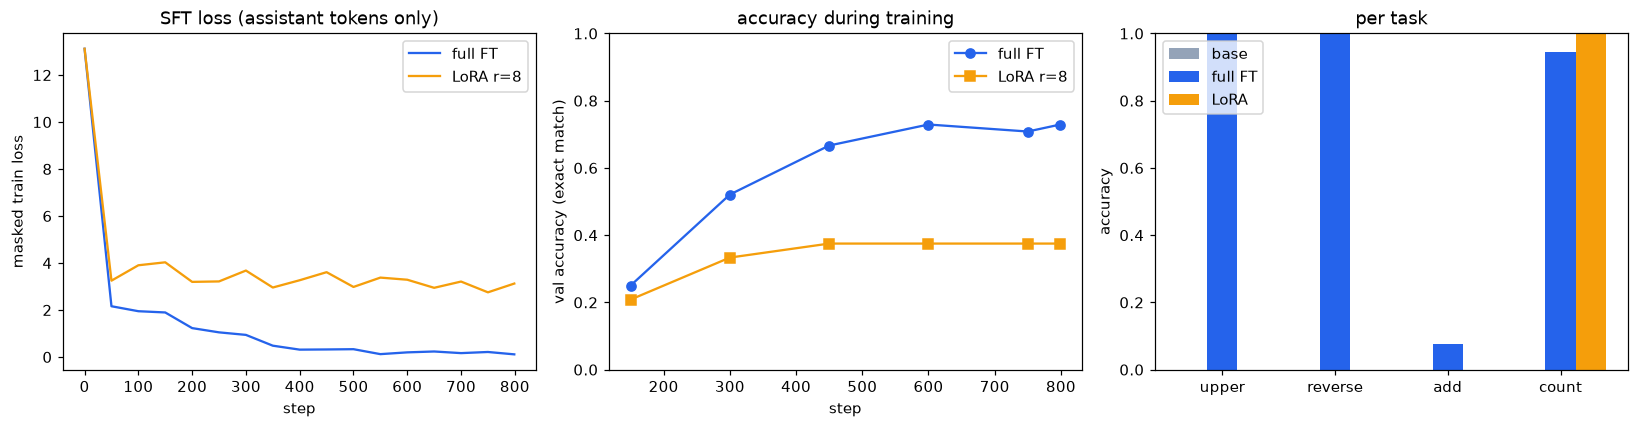
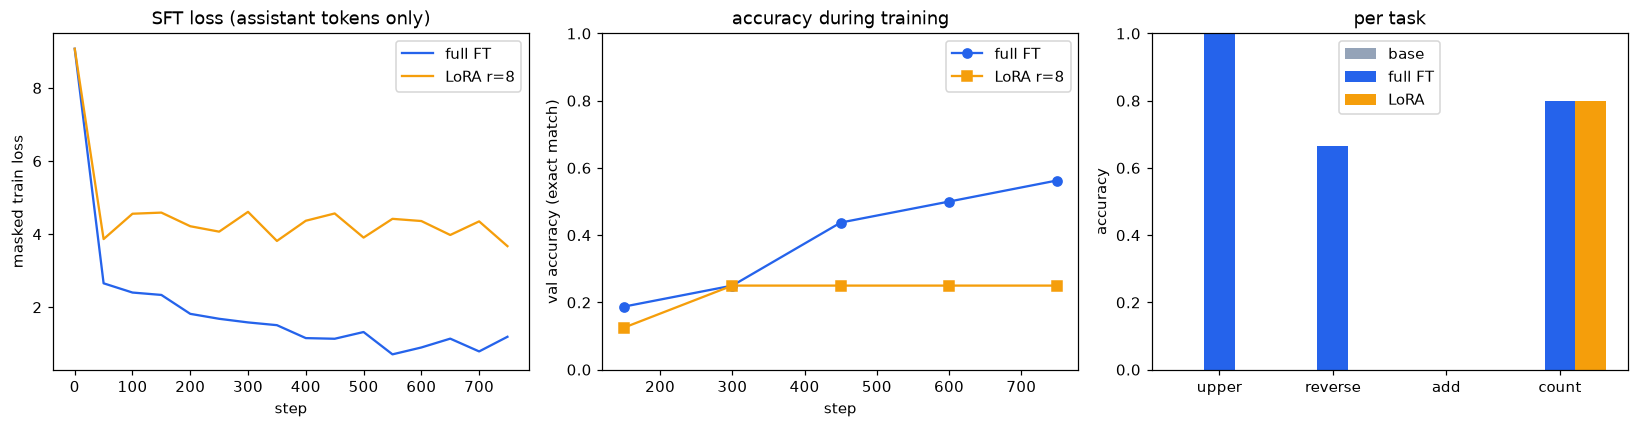
Chapters 27-29 drafts; miniharness session numbering and extra hooks; thread-safe ScriptedBackend; sft_train accepts conversations
Claude-Session: https://claude.ai/code/session_012Vyy4yQT3RsZVSUSp91Re6

diff --git a/course/llm/agent/miniharness.py b/course/llm/agent/miniharness.py
@@ -31,8 +31,10 @@ SESSION_SYSTEM = ("You are a coding agent working in a sandboxed repository. Fol
 
 
 class MiniHarness:
-    def __init__(self, backend: Backend, workdir: str, config: Optional[AgentConfig] = None) -> None:
+    def __init__(self, backend: Backend, workdir: str, config: Optional[AgentConfig] = None,
+                 extra_hooks: Optional[Hooks] = None) -> None:
         self.backend = backend
+        self.extra_hooks = extra_hooks              # caller-supplied hooks, merged into _hooks()
         self.workdir = os.path.realpath(workdir)
         os.makedirs(self.workdir, exist_ok=True)
         cfg = config or AgentConfig()
@@ -60,6 +62,10 @@ class MiniHarness:
     # ------------------------------------------------------------- hooks
     def _hooks(self) -> Hooks:
         hooks = Hooks()
+        if self.extra_hooks is not None:
+            hooks.pre_tool += list(self.extra_hooks.pre_tool)
+            hooks.post_tool += list(self.extra_hooks.post_tool)
+            hooks.on_event += list(self.extra_hooks.on_event)
 
         def guard_writes(call: ToolCall) -> Optional[str]:
             # Rule 1: the plan is the human's contract; the model may not rewrite it.
@@ -106,7 +112,9 @@ class MiniHarness:
         t = agent.run(prompt)
         self.sessions.append(t)
         ok, report = self.verify()
-        n = len(self.sessions)
+        # Number sessions from the file, not from this object: a *new process* resuming on
+        # the same directory (the whole point of PROGRESS.md) must continue the count.
+        n = self._read("PROGRESS.md").count("\n## Session ") + 1
         self._append("PROGRESS.md", f"\n## Session {n} ({t.stop_reason}, {t.turns} turns, {t.tool_calls_made} tool calls)\n"
                                     f"{t.final_text.strip() or '(no summary)'}\n\n"
                                     f"Verification: {'PASS' if ok else 'FAIL'}\n```\n{report.strip()[-800:]}\n```")

diff --git a/course/llm/agent/backends.py b/course/llm/agent/backends.py
@@ -25,6 +25,7 @@ Each backend translates this format to and from its own wire format.
 from __future__ import annotations
 
 import json
+import threading
 import os
 import re
 import uuid
@@ -94,6 +95,7 @@ class ScriptedBackend:
         self.script = [self._coerce(item) for item in script]
         self.calls: list[dict] = []
         self.index = 0
+        self._lock = threading.Lock()               # workers in threads (Ch. 28) share one script
 
     @staticmethod
     def _coerce(item: ScriptItem) -> AssistantMessage:
@@ -105,12 +107,13 @@ class ScriptedBackend:
         return AssistantMessage(text=item.get("text", ""), tool_calls=calls)
 
     def complete(self, messages: list[dict], tools: list[dict], system: str) -> AssistantMessage:
-        self.calls.append({"messages": [dict(m) for m in messages], "tools": tools, "system": system})
-        if self.index >= len(self.script):
-            return AssistantMessage(text="(script exhausted)")
-        msg = self.script[self.index]
-        self.index += 1
-        return msg
+        with self._lock:                            # thread-safe: workers may share one script
+            self.calls.append({"messages": [dict(m) for m in messages], "tools": tools, "system": system})
+            if self.index >= len(self.script):
+                return AssistantMessage(text="(script exhausted)")
+            msg = self.script[self.index]
+            self.index += 1
+            return msg
 
 
 # -------------------------------------------------------------------- TinyLM

diff --git a/course/llm/sft.py b/course/llm/sft.py
@@ -79,8 +79,13 @@ def build_sft_dataset(tok: BPETokenizer, examples: Sequence[TaskExample], max_le
     everything else — system prompt, user turn, role tags — is 0 and contributes
     nothing to the loss.
     """
-    return [build_sft_example(tok, ex.messages(with_answer=True, system=system), max_len)
-            for ex in examples]
+    out = []
+    for ex in examples:
+        # accept either a TaskExample or a raw conversation (list of {"role","content"} dicts),
+        # so tool-use traces (Chapters 21, 27) can use the same training loop
+        msgs = ex if isinstance(ex, (list, tuple)) else ex.messages(with_answer=True, system=system)
+        out.append(build_sft_example(tok, msgs, max_len))
+    return out
 
 
 def describe_mask(tok: BPETokenizer, ids: Sequence[int], mask: Sequence[int]) -> str:

diff --git a/course/chapters/15-sft.md b/course/chapters/15-sft.md
@@ -44,7 +44,7 @@ Full fine-tuning updates every weight. For a 2.5M-parameter TinyLM that is free;
 
 In the figure the input `x` takes two paths. The upper path is the frozen weight `W` (192 × 192 for TinyLM-small's `q_proj`, 36,864 numbers). The lower path is two thin matrices: `A` squeezes `x` from 192 dimensions to `r = 8`, and `B` expands it back to 192. Their product `B A` has the same shape as `W`, so the two paths can be added, scaled by `α/r`. What is trained is only `A` and `B`: 8 × 192 + 192 × 8 = 3,072 numbers, 8.3% of `W`. `B` starts at zero, so on step 0 the layer computes exactly `W x` and training moves it away from the base model gradually. After training, `W + (α/r) B A` is computed once and written back into `W` (`merge_lora`), so the served model is an ordinary model with no extra cost. The rank `r` bounds how much the adapter can change: the update `B A` has at most 8 independent directions. Hu et al. (2021) found that surprisingly small ranks (4 to 16) match full fine-tuning on most tasks, and the current evidence (Biderman et al., 2024, "LoRA Learns Less and Forgets Less") is that LoRA under-performs full fine-tuning on tasks that need new knowledge, such as continued pretraining on code, and matches it on format and style tasks, while also forgetting less of the base model's abilities. The lab measures both halves of that claim.
 
-An analogy: LoRA is like editing a published book with a sheet of errata clipped to each chapter instead of reprinting the book. The sheet is small, several sheets can be swapped in and out, and a reader can paste the corrections into the text if they want a single clean copy. The limit of the analogy: an erratum can change any sentence, while a rank-8 update can only change a weight matrix along eight directions.
+An analogy: LoRA is an errata sheet clipped to a printed book instead of a reprint: small, swappable, and pasteable into the text for a clean copy. Its limit: an erratum can change any sentence, while a rank-8 update can only move a weight matrix along eight directions.
 
 ## The idea in code
 
@@ -102,7 +102,7 @@ hist = sft_train(model, tok, train, cfg, val_examples=make_examples(32, seed=2, 
 hist.train_loss[0], hist.train_loss[-1], hist.val_acc    # 9.07, 1.19, [0.19, 0.25, 0.44, 0.50, 0.56]  (nano, ~3 min idle)
 ```
 
-The defaults in `SFTConfig` encode the folklore of the stage. `lr = 3e-4` is a third of pretraining's `1e-3`; production SFT of a 7B-to-70B model uses `1e-5` to `2e-5`, roughly ten times below its pretraining rate, because the model is already in a good basin and a large step leaves it. The lab uses `1e-3` because TinyLM is 300 to 2,500 times smaller than those models and the default converges about three times slower at this scale; the rule "SFT LR ≈ pretraining LR / 10" is a rule for models that were pretrained near their optimal LR, which nano and small were not. `weight_decay = 0` because decay pulls weights toward zero, away from the pretrained solution. `epochs` is optional and usually 1 to 3: the third epoch on a small set overfits, which shows up as validation loss rising while accuracy plateaus. `max_len = 192` truncates; `grad_clip = 1.0` as always.
+The defaults in `SFTConfig` encode the folklore of the stage. `lr = 3e-4` is a third of pretraining's `1e-3`; production SFT of a 7B-to-70B model uses `1e-5` to `2e-5`, roughly ten times below its pretraining rate, because the model is already in a good basin and a large step leaves it. The lab uses `1e-3` because TinyLM is thousands of times smaller and the default converges about three times slower at this scale; the "pretraining LR / 10" rule assumes a model pretrained near its optimal LR, which nano and small were not. `weight_decay = 0` because decay pulls weights toward zero, away from the pretrained solution. `epochs` is usually 1 to 3: a third epoch on a small set shows up as validation loss rising while accuracy plateaus. `max_len = 192` truncates; `grad_clip = 1.0` as always.
 
 ### Step 4: packing
 
@@ -165,7 +165,7 @@ step     0 | loss 9.0731 | lr 5.00e-05 | grad_norm 11.90
    val loss 1.3134 | accuracy 0.44 (add=0.00 count=1.00 reverse=0.33 upper=0.33)     <- step 450
    val loss 1.1553 | accuracy 0.50 (add=0.00 count=0.80 reverse=0.50 upper=0.83)     <- step 600
    val loss 1.0471 | accuracy 0.56 (add=0.00 count=0.80 reverse=0.67 upper=1.00)     <- step 749
-full FT: 398s for 750 steps (0.53s/step) | loss 9.07 -> 1.19
+full FT: 42s for 750 steps (0.06s/step) | loss 9.07 -> 1.19
 ```
 
 Read the accuracy column as a story in three acts. By step 150 the model answers in the format (every answer is short and ends with `<|end|>`) and has learned `count`, the task whose answer is one digit determined by a length. Between 300 and 450, `upper` and `reverse` switch on: until then the model was producing plausible uppercase strings that ignored the prompt word (`Write in capitals: map` → `BARE` in an earlier 300-step run), and the jump is the moment attention from the answer position to the prompt's word token forms, the same copy circuit that Chapter 5 drew. `add` never moves: two-digit addition with carries is not a shallow transformation of the prompt, and 750 steps of imitation do not install it, which is Chapter 19's job. The loss falls from 9.07 to 1.19, but the number that matters is the accuracy table after training:
@@ -208,12 +208,12 @@ Then a fresh copy is trained through `sft_train(..., lora_rank=8)` for the same 
 
 ```
 method         trainable  steps    time  s/step  accuracy  upper  reverse   add  count    ppl
-full FT          379,200    750    398s    0.53      0.56   1.00     0.67  0.00   0.80 821.65
-LoRA r=8          37,632    750    238s    0.32      0.25   0.00     0.00  0.00   0.80  22.21
-one training step, evals excluded: full FT 1461 ms | LoRA 521 ms
+full FT          379,200    750     42s    0.06      0.56   1.00     0.67  0.00   0.80 821.65
+LoRA r=8          37,632    750     45s    0.06      0.25   0.00     0.00  0.00   0.80  22.21
+one training step, evals excluded: full FT 48 ms | LoRA 52 ms
 ```
 
-Two things to read off. First, "LoRA learns less and forgets less" in one row: with a tenth of the parameters and the same steps, rank-8 LoRA on nano learns the format and `count` and never gets the copy tasks (its validation loss flattens at 3.8 against 1.05 for full fine-tuning), while its Storyland perplexity is 22 instead of 822. The rank bounds how far each weight matrix can move, in both directions. Second, the cost: the wall-clock column includes the periodic evaluations, which are slow for a model that has not learned to stop, so the honest comparison is the micro-benchmark on the last line. Frozen weights need no weight-gradient matmuls and the optimizer touches 37k numbers instead of 379k, so a LoRA step can only be cheaper; how much cheaper depends on what dominates. Here the quick run measured 521 ms against 1,461 ms on a CPU that other jobs were loading (a load average above 10, so treat the ratio as noisy), while the idle-machine full run below measured 187 ms against 201 ms: at TinyLM's size the activation-gradient work, which LoRA does not skip, is most of the step. LoRA's memory saving, the Adam moments for 2.5M or 70B parameters that never get allocated, is the reliable win; the speed-up is a bonus that grows with model size. The lab's checks confirm `sft_train` merged the adapters back and that the result has the same parameter names as the base. The quick run takes about 12 minutes on a loaded 4-core machine, most of it the two 750-step trainings.
+Two things to read off. First, "LoRA learns less and forgets less" in one row: with a tenth of the parameters and the same steps, rank-8 LoRA on nano learns the format and `count` and never gets the copy tasks (its validation loss flattens at 3.8 against 1.05 for full fine-tuning), while its Storyland perplexity is 22 instead of 822. The rank bounds how far each weight matrix can move, in both directions. Second, the cost. The wall-clock column includes the periodic evaluations, which are slow for a model that has not learned to stop, so the honest comparison is the micro-benchmark on the last line: 48 ms against 52 ms, no saving at all. Frozen weights need no weight-gradient matmuls and the optimizer touches 37k numbers instead of 379k, but at TinyLM's size the activation-gradient work, which LoRA does not skip, is most of the step. LoRA's reliable win is memory (the Adam moments for 2.5M, or 70B, parameters that are never allocated); the speed-up is a bonus that only appears once the weight matmuls dominate. The lab's checks confirm `sft_train` merged the adapters back and that the result has the same parameter names as the base. The whole quick run takes 94 s on an idle 4-core CPU (12 minutes when the same CPU was shared with other jobs).
 
 The `--full` run does the same with TinyLM-small on 48 validation items and 800 steps, and gets the copy tasks completely:
 
@@ -243,7 +243,7 @@ LoRA r=8         150,528    800    435s    0.54      0.38   0.00     0.00  0.00 
 one training step, evals excluded: full FT 201 ms | LoRA 187 ms
 ```
 
-The larger model learns the copy tasks earlier (0.88 on `upper` by step 450 against 0.33 for nano) and gets them all by step 600, with the training loss at 0.11 by the end. `add` creeps to 0.08: the model now copies the two operands correctly (`20 + 55 = 77`) and gets the sum wrong, which is the honest state of a model that has learned the procedure's *shape*, and an intermediate step that Chapter 19's verifiable reward will push the rest of the way. The confidence interval on `all`, `[0.60, 0.85]` with 48 items, is the reminder that 0.73 is not a precise number. Forgetting is milder in absolute terms than for nano (perplexity 182 instead of 822) and still catastrophic; the checkpoint `runs/sft_small.pt` is what Chapters 16 to 20 load. The LoRA row repeats the quick story at 6.0% of the parameters: `count` at 1.00, copy tasks at 0.00 after 800 steps, perplexity 5.96. The full run took 19.5 minutes on a 4-core CPU that other jobs were sharing; about 11 of those minutes are the two 800-step trainings and the rest is evaluation.
+The larger model learns the copy tasks earlier (0.88 on `upper` by step 450 against 0.33 for nano) and gets them all by step 600, with the training loss at 0.11 by the end. `add` creeps to 0.08: the model now copies the two operands correctly (`20 + 55 = 77`) and gets the sum wrong, which is the honest state of a model that has learned the procedure's *shape*, and an intermediate step that Chapter 19's verifiable reward will push the rest of the way. The confidence interval on `all`, `[0.60, 0.85]` with 48 items, is the reminder that 0.73 is not a precise number. Forgetting is milder in absolute terms than for nano (perplexity 182 instead of 822) and still catastrophic; the checkpoint `runs/sft_small.pt` is what Chapters 16 to 20 load. The LoRA row repeats the quick story at 6.0% of the parameters: `count` at 1.00, copy tasks at 0.00 after 800 steps, perplexity 5.96. The full run took 19.5 minutes on a 4-core CPU that other jobs were sharing, about 11 of them the two 800-step trainings; the per-step micro-benchmark there was 201 ms for full fine-tuning against 187 ms for LoRA, the same near-tie as in quick mode.
 
 The lab saves `figures/generated/lab15_sft.png`: the masked training loss for both methods, the validation accuracy curve, and the per-task bars for base, full fine-tuning and LoRA.
 
@@ -260,7 +260,6 @@ Two things it does not teach well. It does not add **knowledge**. The Storyland 
 - **SFT is a short warm-start, not the main event.** DeepSeek-R1 used a few thousand cold-start examples before RL; Qwen3's report describes its SFT stages as preparation for RL and as the place where thinking and non-thinking modes are fused. The 2026 pattern is SFT for hundreds to a few thousand steps to establish the format and a sensible starting policy, then RLVR to improve it, then a final SFT or distillation pass to consolidate. The stages of Chapter 14's figure repeat several times per release. https://arxiv.org/abs/2501.12948
 - **Instruction data has moved into pretraining.** FineInstructions (January 2026) synthesises instruction-answer pairs at pretraining scale, so that the base model already knows the format when post-training begins; mid-training mixes of 2025 models already did this at smaller scale (Chapter 13). The effect is that the base-to-instruct gap shrinks, and the SFT stage becomes shorter still. https://arxiv.org/abs/2601.22146
 - **On-policy distillation replaces off-policy SFT for the small-model case.** SFT on teacher outputs was the standard way to make a small model from a large one; Thinking Machines (October 2025) and the 2026 follow-ups (arXiv 2604.13016) report that a short off-policy SFT followed by on-policy distillation beats SFT alone at a fraction of the compute of RL. Chapter 20 implements it. https://thinkingmachines.ai/blog/on-policy-distillation/
-- **LoRA has become a serving primitive.** Hundreds of adapters over one base model can be served together (batched LoRA in vLLM and similar), which is why fine-tuning APIs return an adapter rather than a model. Full fine-tuning remains the choice when new knowledge must go in.
 
 What is open: how much SFT data is "enough" once instruction data is in pretraining (the LIMA result of 1,000 examples was for a 65B model; small models need more), and whether SFT on chain-of-thought helps or hurts the RL that follows (R1-Zero says it is not needed; every shipped model still uses it).
 

diff --git a/course/chapters/16-data-labeling.md b/course/chapters/16-data-labeling.md
@@ -19,7 +19,7 @@ The two panels below the workflow are the chapter's two measurement tools. The l
 
 ### Three label formats
 
-**Pairwise comparison** shows two answers to one prompt and asks which is better (or tie). It is the format of the interactive, of InstructGPT's data, and of DPO. Its strength is that people are far more consistent at "which is better?" than at "how good is this?"; its cost is that a set of n answers needs on the order of n² comparisons to rank fully. **Likert rating** asks for a score on a fixed scale (1–5 or 1–7) for one answer at a time. It is cheap and gives an absolute number, but annotators drift (one person's 4 is another's 3) and the scale compresses at the top. **Ranking** shows k answers and asks for a full order; InstructGPT used k between 4 and 9 and converted each ranking into all of its pairwise comparisons for training the reward model. In 2026 the pragmatic combination is pairwise labels with a rubric attached, so that each comparison also records *why*: the rubric ticks are what later lets you train a rubric-based reward model (Chapter 17).
+**Pairwise comparison** shows two answers to one prompt and asks which is better (or tie): the format of the interactive, of InstructGPT's data, and of DPO. People are far more consistent at "which is better?" than at "how good is this?"; the cost is that ranking n answers fully needs on the order of n² comparisons. **Likert rating** scores one answer on a fixed scale (1–5 or 1–7): cheap and absolute, but annotators drift (one person's 4 is another's 3) and the scale compresses at the top. **Ranking** orders k answers at once; InstructGPT used k between 4 and 9 and expanded each ranking into all its pairwise comparisons. The 2026 default is pairwise labels with a rubric attached, so each comparison also records *why*; the rubric ticks are what later trains a rubric-based reward model (Chapter 17).
 
 ### Cohen's kappa
 
@@ -258,7 +258,6 @@ What is settled: measure agreement before scaling; run the swap test on every LL
 4. **A verbosity-aware check.** Write `verbosity_check(judge, pairs)` that reports the judge's win-rate for the longer answer, split by whether the longer answer is the chosen one. Run it on the three judges. Which of them does the swap test miss and this catch?
 5. **Short-prompt dedup.** Replace `shingles` with character 5-grams (a copy of the function using `text[i:i+5]`) and re-run the dedup section. Does the ` please` near-duplicate get caught at 0.8 now? What happens to the story near-duplicates?
 6. **Rejection sampling at temperature.** After Lab 15, call `make_preference_pairs_from_model` on the SFT model at temperatures 0.5, 1.0 and 1.5 with 8 samples. Plot `n_pairs` and `sample_accuracy` against temperature. Why is the best temperature for *pairs* not the best for *accuracy*?
-7. **Gold items.** Add ten gold items (pairs where the rejected answer is `empty`) to the noisy annotator's stream and compute their accuracy on gold only. At what flip rate would you stop trusting them, and how many gold items do you need before that decision is reliable?
 
 ## Check yourself ✅
 
